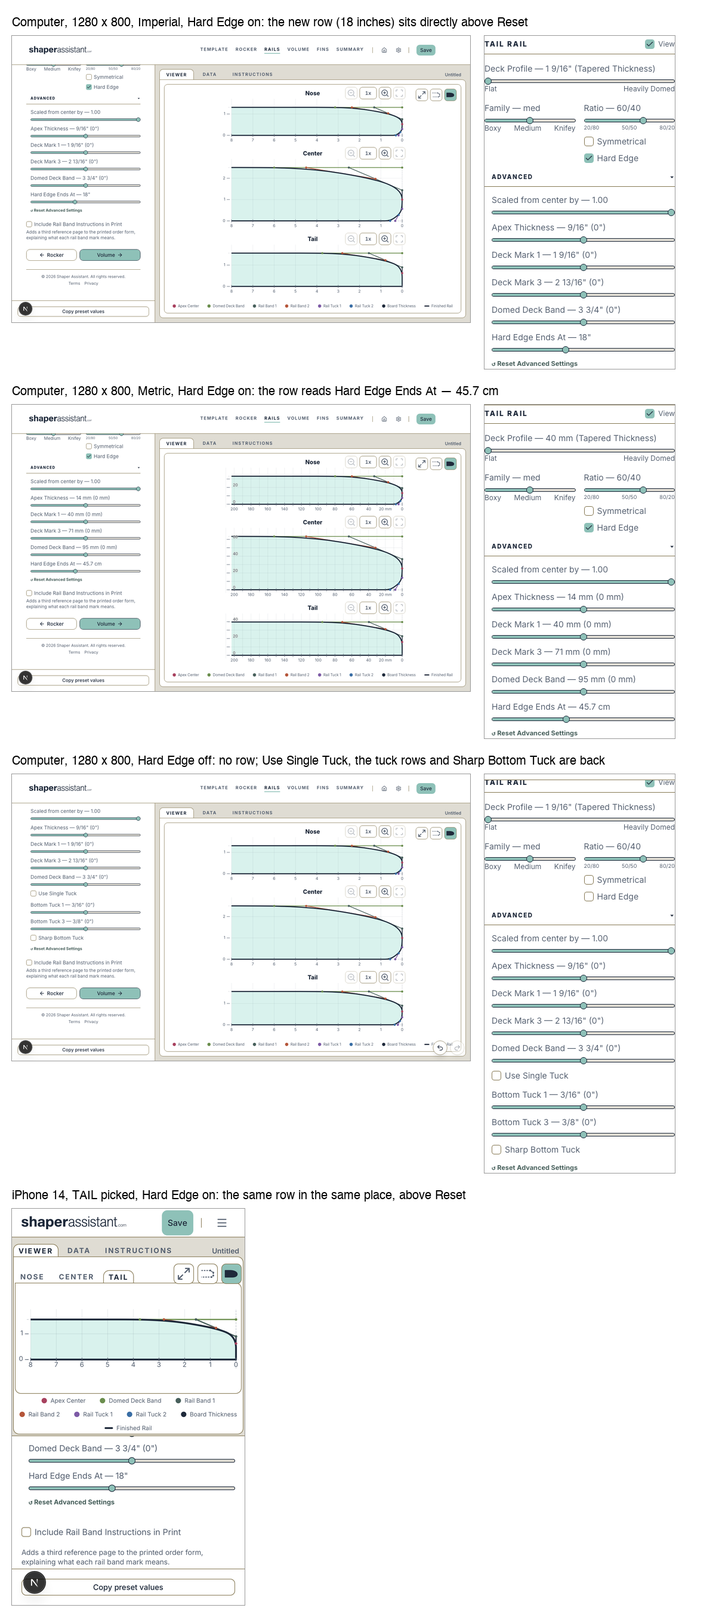
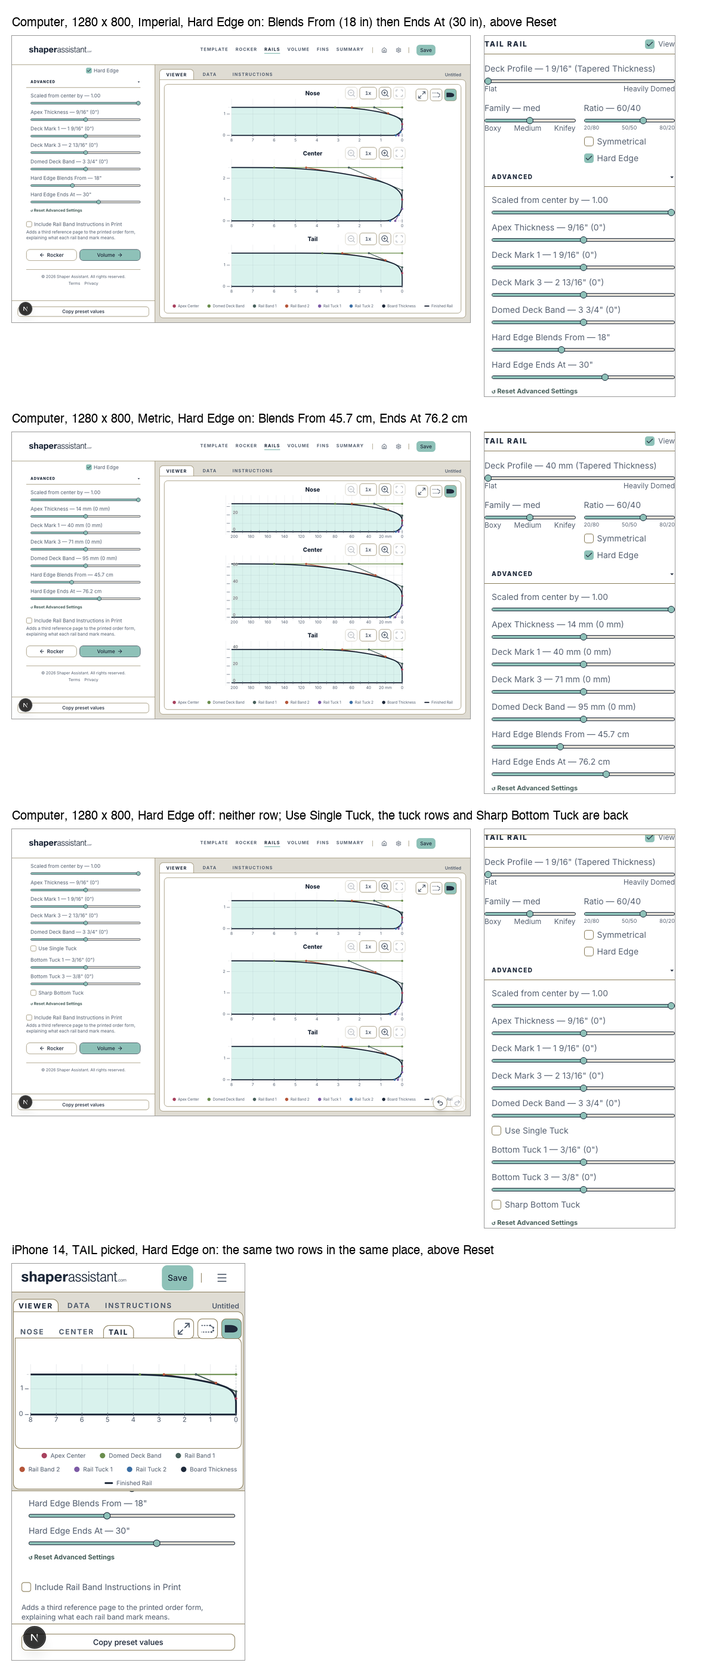
docs(16-02): pictures of RAILS' two hard-edge sliders and the summary for the founder's second look
The tail's Advanced menu on a computer (Imperial, Metric, Hard Edge off) and on an
iPhone, now showing Hard Edge Blends From above Hard Edge Ends At, and the plan's
summary rewritten for D-30: the two settings, the per-length default end, the
preset litres, the re-recorded VOLUME picture and the report's new sample.

Changed region(s): [[0.0, 0.0, 0.9558, 0.7442], [0.0, 0.7442, 0.37, 0.9922], [0.0308, 0.0, 0.2158, 0.2171]]

diff --git a/.planning/phases/16-3d-board-and-cnc-export/16-02-SUMMARY.md b/.planning/phases/16-3d-board-and-cnc-export/16-02-SUMMARY.md
@@ -1,24 +1,29 @@
 ---
 phase: 16-3d-board-and-cnc-export
 plan: 02
-subsystem: rails (controls), saved boards, saved-boards check
+subsystem: rails (controls), hard-edge maths, saved boards, saved-boards check
 status: complete
-tags: [rails, hard-edge, D-05, D-17, D-18, D-20, snapshot, report]
+tags: [rails, hard-edge, D-05, D-17, D-18, D-20, D-27, D-30, snapshot, report]
 requires:
-  - "16-01: RailBandSpec.tailHardEdgeEndsAt, hardEdgeEndsAt, HARD_EDGE_ENDS_AT_RANGE_IN, formatHardEdgeEndsAt, hardEdgeEndsAtSlider, HARD_EDGE_SWITCH, designCrossSectionInput, summarizeDesignWith"
+  - "16-01: boardSections, HARD_EDGE_FADE / HARD_EDGE_SWITCH, RailBandSpec.tailHardEdgeEndsAt, designCrossSectionInput, summarizeDesignWith"
 provides:
-  - "The Hard Edge Ends At row in the tail's Advanced menu on RAILS"
-  - "setTailHardEdgeEndsAt (store); resetRailAdvanced('tail') deletes tailHardEdgeEndsAt in the same undo step"
+  - "RailBandSpec.tailHardEdgeBlendsFrom (D-30) beside tailHardEdgeEndsAt"
+  - "hardEdgeBlendsFrom(rails, length), hardEdgeEndsAt(rails, length), defaultHardEdgeEndsAt(length), hardEdgeBlendsFromWindow, hardEdgeEndsAtWindow"
+  - "HARD_EDGE_BLENDS_FROM_RANGE_IN, DEFAULT_HARD_EDGE_BLENDS_FROM_IN, HARD_EDGE_MIN_BLEND_IN, DEFAULT_HARD_EDGE_ENDS_AT_RULE_IN, HARD_EDGE_ENDS_AT_RANGE_IN (step only)"
+  - "HardEdgeRule.weight(station, anchors, rails, length); tailHardEdgeWeight(station, blendsFrom, endsAt)"
+  - "formatHardEdgeBlendsFrom, formatHardEdgeEndsAt, hardEdgeBlendsFromSlider, hardEdgeEndsAtSlider (coupled ranges)"
+  - "The Hard Edge Blends From and Hard Edge Ends At rows in the tail's Advanced menu on RAILS"
+  - "setTailHardEdgeBlendsFrom, setTailHardEdgeEndsAt (store); resetRailAdvanced('tail') deletes both in one undo step"
   - "The store's litres built through designCrossSectionInput (D-05)"
-  - "Snapshot rule 13: tailHardEdgeEndsAt optional and forgiving, version still 5"
-  - "lib/models/hard-edge-report.ts: hardEdgeLitresMove, hardEdgeReportLines"
-  - "scripts/check-saved-boards.ts --hard-edge-report"
-affects: [16-03, 16-04, 16-05]
+  - "Snapshot rule 13: both settings optional and forgiving, version still 5"
+  - "lib/models/hard-edge-report.ts (hardEdgeLitresMove, hardEdgeReportLines) and scripts/check-saved-boards.ts --hard-edge-report"
+affects: [16-03, 16-04, 16-05, 16-06, 16-07]
 tech-stack:
   added: []
   patterns:
     - "A refused snapshot value leaves no key behind (a .transform strips the undefined), so a bad value reads exactly like an absent one"
-    - "A locked board is seeded in a browser test as a kept saved board (modelId + ownerId + locked), the open-board copy's own trusted shape"
+    - "Two coupled settings resolved in order (start, then end inside a window the start sets), so no stored pair can cross"
+    - "A locked board is seeded in a browser test as a kept saved board (modelId + ownerId + locked)"
 key-files:
   created:
     - lib/models/hard-edge-report.ts
@@ -26,6 +31,13 @@ key-files:
     - .planning/phases/16-3d-board-and-cnc-export/pictures/16-02-rails-hard-edge-ends-at.png
     - .planning/phases/16-3d-board-and-cnc-export/pictures/16-02-pictures-source.tar.gz
   modified:
+    - lib/geometry/rail-bands.ts
+    - lib/geometry/rail-bands.test.ts
+    - lib/geometry/volume.ts
+    - lib/geometry/volume.test.ts
+    - lib/geometry/blank-reasons.ts
+    - lib/geometry/blank-reasons.test.ts
+    - lib/geometry/__fixtures__/phase14-preset-figures.json
     - components/rails/rail-controls.tsx
     - components/rails/rail-band-editor.tsx
     - components/design/design-store.tsx
@@ -33,160 +45,228 @@ key-files:
     - lib/models/design-snapshot.ts
     - lib/models/design-snapshot.test.ts
     - e2e/rails-advanced.spec.ts
+    - e2e/desktop-baseline.spec.ts
+    - e2e/desktop-baseline.spec.ts-snapshots/volume-desktop-desktop-darwin.png
     - scripts/check-saved-boards.ts
+    - .planning/phases/16-3d-board-and-cnc-export/16-01-SUMMARY.md
 decisions:
-  - "Hard Edge Ends At sits last in the tail's Advanced menu, directly above Reset, shown only while Hard Edge is on (UI-SPEC §17)"
-  - "Reset Advanced Settings on the tail deletes the stored distance (the board reads 18 inches), in the same undo step as the rest"
-  - "The saved-board reader drops any Hard Edge Ends At that is not a number from 14 to 24 inches, leaving no key; version stays 5"
-  - "The hard-edge report prints ids and litres only, largest move first, and never changes the check's exit code"
+  - "D-30: the tail's hard edge is full to Hard Edge Blends From (12-30 in, default 18) and fully blended into the centre's tucked rail by Hard Edge Ends At (2 in past Blends From up to the board's centre)"
+  - "The default Ends At grows with the board: L/3 - 18 inches short of the centre (L/6 + 18 from the tail), to the nearest half inch; the two defaults are independent"
+  - "The two settings are read start-first, so a stored pair that crosses always resolves to a valid pair, and the RAILS sliders' ranges follow each other"
+  - "Reset Advanced Settings on the tail deletes both stored settings in the same undo step as the rest"
+  - "The saved-board reader drops only values that could sit on no board; the readers forgive a value that fits some board but not this one; version stays 5"
+  - "The hard-edge report prints ids, both settings (marked default where unset) and litres only, largest move first, and never changes the check's exit code"
 metrics:
-  duration: "about 34 minutes"
+  duration: "about 76 minutes (34 for the first look, 42 for D-30)"
   completed: 2026-11-04
 actuals:
-  tokens: 17000
+  tokens: 52000
   tasks: 2
-  commits: 3
+  commits: 7
 ---
 
-# Phase 16 Plan 02: Hard Edge Ends At on RAILS, saved with the board, and the founder's litres report Summary
+# Phase 16 Plan 02: Hard Edge Blends From and Ends At on RAILS, saved with the board, and the founder's litres report Summary
 
-RAILS now has a "Hard Edge Ends At" slider at the bottom of the tail's Advanced menu, shown while Hard Edge is on.
-It runs 14" to 24" (18" by default), is saved with the board, goes back to 18" on Reset, and moves VOLUME's litres. A
-new read-only `--hard-edge-report` lists, for each saved board with a hard edge, its litres before and after the fade.
+The tail's hard edge now has two settings on RAILS, as D-30 asked. **Hard Edge Blends From** is where the edge
+starts blending; it's full up to there (default 18"). **Hard Edge Ends At** is where the rail has fully blended into
+the centre's tucked rail. Its default grows with the board's length: 30" on a 6'0". Both are saved with the board,
+Reset puts both back in one undo step, VOLUME's litres follow either one, and a read-only report lists each saved
+board's litres before and after.
 
 ## What changes for the founder
 
-- **A new slider on RAILS.** Tick Hard Edge on the tail and open its Advanced menu. The last slider, directly above
-  `↺ Reset Advanced Settings`, now reads `Hard Edge Ends At — 18"`. It sets how far from the tail the hard edge fades
-  into the tucked rail: 14" to 24" in half-inch steps. In Metric it reads `45.7 cm` and moves in whole centimetres. It
-  looks like the sliders above it, with no hint, note or pop-up.
-- **VOLUME follows it.** Moving the slider changes the litres slightly. On the stock board, 18" reads 30.27 L and 24"
-  reads 30.28 L. Nothing on screen says the litres moved, as you asked (D-18).
-- **It stays put.** The board keeps the setting through a reload and a save. Untick Hard Edge and the slider goes away
-  (the tuck rows come back, as before). Tick it again and the slider shows the same distance. `↺ Reset Advanced
-  Settings` puts it back to 18" along with everything else it resets, and one Undo brings it all back.
-- **Old boards are safe.** A board saved before this reads 18", which is what 16-01 already gave it, and nothing is
-  rewritten until you save it. The database didn't change. A saved board holding a value that makes no sense (text, or
-  a distance outside 14"–24") also opens at 18" and is never refused.
-- **A report to run before go-live.** `scripts/check-saved-boards.ts --hard-edge-report` lists, for each saved board
-  with a hard-edged tail, its id and its litres before and after the fade, largest move first. It only reads, and it
-  never shows a board's name or an account. It hasn't been run on the live site; that's your command in the go-live
-  plan (the one-line command is in the script's header, next to the rack report's).
-- **One small thing you may notice in Metric.** 18" is 45.72 cm, which falls between two whole centimetres. So the
-  first arrow-key step or drag from 45.7 cm lands on 47.0 cm, and every step after that is exactly 1 cm. Every Metric
-  slider in the app works this way (the Thinning Start slider too). For the same reason the Metric track runs 36–60 cm,
-  the whole centimetres inside 14"–24".
+- **Two sliders on RAILS.** Tick Hard Edge on the tail and open its Advanced menu. Directly above
+  `↺ Reset Advanced Settings` are two new sliders, in the same style as the ones above them:
+  - `Hard Edge Blends From — 18"`: the hard edge is full up to here, then starts blending into the tucked rail.
+    12" to 30". It never goes below the 12" mark, so the tail plot on RAILS is always a full hard edge.
+  - `Hard Edge Ends At — 30"`: in your words, "where the rail has fully blended into the centre's tuck(s)". From
+    here on the rail is the centre's tucked rail, with the centre's Single Tuck and Sharp Bottom Tuck (D-27,
+    unchanged). It can go "all the way to the centre of the board".
+
+  Both move in half-inch steps. In Metric they read `45.7 cm` and `76.2 cm` and move in whole centimetres.
+- **They follow each other.** Ends At can't come closer than 2" to Blends From, and Blends From can't go past 2"
+  short of Ends At. On a longer board Ends At runs further, because it stops at that board's centre.
+- **The default end grows with the board**, as you set it: "Default end at = L/3 − 18", meaning "inches short of the
+  centre". A board that says nothing reads:
+
+  | Board length | Default Ends At |
+  |---|---:|
+  | 5'8" | 29 1/2" |
+  | 6'0" | 30" |
+  | 6'2" | 30 1/2" |
+  | 7'2" | 32 1/2" |
+  | 9'0" | 36" |
+
+  The default start is always 18". The two defaults are independent of each other.
+- **The 3D page will have the same two sliders.** Its panel comes in a later plan (16-06/16-07), but it will read and
+  write the very same two values on the board. Move one on RAILS and the 3D page shows the new value, and the other
+  way round. Nothing extra has to be built for that.
+- **VOLUME follows either slider.** Nothing on screen says the litres moved (D-18). The preset cards move a hair:
+
+  | Preset | Before Phase 16 | After 16-01 (12"→18") | Now (18" → its own default end) |
+  |---|---:|---:|---:|
+  | Shortboard (6'2", ends at 30 1/2") | 29.61 L | 29.59 L | 29.61 L |
+  | Fish (5'8", ends at 29 1/2") | 34.65 L | 34.64 L | 34.65 L |
+  | Mid-length (7'2", ends at 32 1/2") | 49.41 L | 49.38 L | 49.40 L |
+  | Longboard | unchanged (its tail isn't hard-edged) | | |
+
+  The stock 6'0" board reads 30.29 L on VOLUME again, as it did before 16-01. Its reference picture was re-recorded,
+  and the new file is byte-for-byte the picture from before 16-01. The other four reference pictures didn't change.
+- **The longboard rows.** In the 40-board test set a longboard with Hard Edge ticked now reads about 0.36–0.43 L less
+  than before Phase 16, down from about 1 L after 16-01. Set Ends At further toward the centre and you can keep as
+  much hard edge as the old switch did, or more. The full table is in 16-01's SUMMARY, under "D-30 update".
+- **It stays put.** Both settings survive a reload and a save. Untick Hard Edge and both sliders go away (the tuck rows
+  come back); tick it again and they show the same values. Reset Advanced Settings puts both back to the defaults with
+  everything else, and one Undo brings it all back.
+- **Old boards are safe.** A board saved before this reads 18" and its own default end. So does a board saved with
+  16-02's first single Ends At, except that it keeps that Ends At. Nothing is rewritten until you save, and the
+  database didn't change. A stored value that makes no sense, or a pair that crosses, is read as a sensible pair, and
+  the board is never refused.
+- **A report to run before go-live.** `scripts/check-saved-boards.ts --hard-edge-report` lists every saved board with
+  a hard-edged tail: its two settings as it reads them (marked `(default)` when the board stores none), then its
+  litres before and after, largest move first. It only reads, and it never shows a board's name or an account. It
+  hasn't been run on the live site; that's your one-line command in the go-live plan (in the script's header).
+- **One thing you may notice in Metric.** 18" is 45.72 cm, which falls between two whole centimetres. So the first
+  step or drag from 45.7 cm lands on the next whole centimetre, and every step after that is exactly 1 cm. Every
+  Metric slider in the app works this way.
 
 ## The report on the 40 test boards (not the live site)
 
-Run with the 40-board test set from 16-01, using each board's label as its id (scratch `report40.ts`, archived). The
-figures match 16-01's table to every digit.
+Run with 16-01's 40-board test set, using each board's label as its id (scratch `report40.ts`, archived). None of
+these boards stores a setting, so every one reads the defaults.
 
 ```
 hard-edge report: 40 saved boards; 40 open; 20 with a hard-edged tail
-longboard|asis|hard: 75.03 → 73.96 L (-1.0703)
-longboard|pin|hard: 70.39 → 69.32 L (-1.0703)
-longboard|round|hard: 70.39 → 69.32 L (-1.0703)
-longboard|diamond|hard: 74.65 → 73.65 L (-1.0061)
-longboard|swallow|hard: 75.52 → 74.52 L (-0.9949)
-midlength|diamond|hard: 50.99 → 50.96 L (-0.0317)
-midlength|swallow|hard: 51.66 → 51.63 L (-0.0314)
-midlength|asis|hard: 49.41 → 49.38 L (-0.0289)
-midlength|pin|hard: 49.41 → 49.38 L (-0.0289)
-midlength|round|hard: 49.41 → 49.38 L (-0.0289)
-shortboard|diamond|hard: 30.18 → 30.16 L (-0.0220)
-shortboard|asis|hard: 29.61 → 29.59 L (-0.0219)
-shortboard|pin|hard: 28.77 → 28.75 L (-0.0219)
-shortboard|round|hard: 28.77 → 28.75 L (-0.0219)
-shortboard|swallow|hard: 30.64 → 30.61 L (-0.0215)
-fish|diamond|hard: 34.08 → 34.06 L (-0.0160)
-fish|asis|hard: 34.65 → 34.64 L (-0.0156)
-fish|swallow|hard: 34.65 → 34.64 L (-0.0156)
-fish|pin|hard: 31.87 → 31.86 L (-0.0155)
-fish|round|hard: 31.87 → 31.86 L (-0.0155)
-largest move: longboard|asis|hard, -1.0703 L
+longboard|asis|hard: blends from 18" (default) · ends at 36" (default) — 75.03 → 74.60 L (-0.4307)
+longboard|pin|hard: blends from 18" (default) · ends at 36" (default) — 70.39 → 69.96 L (-0.4307)
+longboard|round|hard: blends from 18" (default) · ends at 36" (default) — 70.39 → 69.96 L (-0.4307)
+longboard|diamond|hard: blends from 18" (default) · ends at 36" (default) — 74.65 → 74.28 L (-0.3680)
+longboard|swallow|hard: blends from 18" (default) · ends at 36" (default) — 75.52 → 75.16 L (-0.3563)
+midlength|diamond|hard: blends from 18" (default) · ends at 32 1/2" (default) — 50.99 → 50.98 L (-0.0072)
+midlength|swallow|hard: blends from 18" (default) · ends at 32 1/2" (default) — 51.66 → 51.66 L (-0.0067)
+midlength|asis|hard: blends from 18" (default) · ends at 32 1/2" (default) — 49.41 → 49.40 L (-0.0049)
+midlength|pin|hard: blends from 18" (default) · ends at 32 1/2" (default) — 49.41 → 49.40 L (-0.0049)
+midlength|round|hard: blends from 18" (default) · ends at 32 1/2" (default) — 49.41 → 49.40 L (-0.0049)
+fish|pin|hard: blends from 18" (default) · ends at 29 1/2" (default) — 31.87 → 31.88 L (+0.0041)
+fish|round|hard: blends from 18" (default) · ends at 29 1/2" (default) — 31.87 → 31.88 L (+0.0041)
+fish|asis|hard: blends from 18" (default) · ends at 29 1/2" (default) — 34.65 → 34.65 L (+0.0040)
+fish|swallow|hard: blends from 18" (default) · ends at 29 1/2" (default) — 34.65 → 34.65 L (+0.0040)
+fish|diamond|hard: blends from 18" (default) · ends at 29 1/2" (default) — 34.08 → 34.08 L (+0.0036)
+shortboard|swallow|hard: blends from 18" (default) · ends at 30 1/2" (default) — 30.64 → 30.64 L (+0.0010)
+shortboard|asis|hard: blends from 18" (default) · ends at 30 1/2" (default) — 29.61 → 29.61 L (+0.0006)
+shortboard|pin|hard: blends from 18" (default) · ends at 30 1/2" (default) — 28.77 → 28.77 L (+0.0006)
+shortboard|round|hard: blends from 18" (default) · ends at 30 1/2" (default) — 28.77 → 28.77 L (+0.0006)
+shortboard|diamond|hard: blends from 18" (default) · ends at 30 1/2" (default) — 30.18 → 30.18 L (+0.0005)
+largest move: longboard|asis|hard, -0.4307 L
 ```
 
-On the live site each line starts with the saved board's row id instead of a label. A board that does not open is
-counted in the first line (`…; k open, d did not open; …`) and never listed.
+On the live site each line starts with the saved board's row id. A board that doesn't open is counted in the first
+line (`…; k open, d did not open; …`) and never listed.
 
-## Tasks
+## Tasks and commits
 
-| Task | Name | Commit | Files |
-| ---- | ---- | ------ | ----- |
-| 1 | Tracer: the row, the store, the saved board, VOLUME following | d209bf49 | rail-controls.tsx, rail-band-editor.tsx, design-store.tsx (+ its source test), design-snapshot.ts (+test), rails-advanced.spec.ts |
-| 2 | Every state of the row, Reset in one undo step, the read-only report | 3a629a1e | design-store.tsx, rails-advanced.spec.ts, hard-edge-report.ts (+test), check-saved-boards.ts, the two pictures |
-| 3 | The founder tries it before this merges | — (checkpoint) | pictures/16-02-rails-hard-edge-ends-at.png, this SUMMARY |
-
-Tracer gate: after Task 1, its browser case passed on iPhone, Android and the computer (with typecheck, lint and the
-full unit suite green). Then Task 2 began.
+| # | What | Commit | Files |
+| - | ---- | ------ | ----- |
+| 1 | Tracer (first look): one Hard Edge Ends At row, the store, the saved board, VOLUME following | d209bf49 | rail-controls.tsx, rail-band-editor.tsx, design-store.tsx (+ its source test), design-snapshot.ts (+test), rails-advanced.spec.ts |
+| 2 | Every state of the row, Reset in one undo step, the read-only report (first look) | 3a629a1e | design-store.tsx, rails-advanced.spec.ts, hard-edge-report.ts (+test), check-saved-boards.ts, pictures |
+| — | SUMMARY for the first look | 0f5e1aa3 | 16-02-SUMMARY.md |
+| A | D-30 maths: Blends From and Ends At, the coupled readers and sliders, preset figures, VOLUME picture, the 16-01 table | 677482ca | rail-bands.ts, volume.ts, blank-reasons.ts (+tests), phase14-preset-figures.json, design-snapshot.ts (+test), rail-controls.tsx, rail-band-editor.tsx, desktop-baseline spec + VOLUME PNG, 16-01-SUMMARY.md |
+| A2 | D-30 amendment: the default end grows with the board (L/3 − 18 short of the centre) | a8d8e3b5 | rail-bands.ts (+test), volume.test.ts, design-snapshot.test.ts, phase14-preset-figures.json, 16-01-SUMMARY.md |
+| B | RAILS' two rows, the store's second setter, Reset of both, the report's settings, the browser cases | b5a065e9 | rail-controls.tsx, rail-band-editor.tsx, design-store.tsx, hard-edge-report.ts (+test), check-saved-boards.ts, rails-advanced.spec.ts |
+| C | Pictures and this SUMMARY | (this commit) | 16-02-rails-hard-edge-ends-at.png, 16-02-pictures-source.tar.gz, 16-02-SUMMARY.md |
+| 3 | The founder's second look | — (checkpoint) | |
 
 ## Verification
 
-- `npm test`: 164 files, 6882 passed, 2 skipped. `npx tsc --noEmit`: 0 errors. `npm run lint`: 0 errors. The one
-  warning, in `lib/db/import-designs-action.test.ts`, was there before this plan.
+- `npm test`: 164 files, 6895 passed, 2 skipped (after A2 and again after B). `npx tsc --noEmit`: 0 errors.
+  `npm run lint`: 0 errors. The one warning, in `lib/db/import-designs-action.test.ts`, was there before this plan.
+- The 40-board pin test still passes: every board's litres under `HARD_EDGE_SWITCH` are bit-identical.
+- `phase14-preset-figures.json`: both regenerations (A, then A2) changed exactly 3 lines, all `litres`
+  (`git diff --numstat` 3/3 each time).
+- `e2e/desktop-baseline.spec.ts --project=desktop`:
+  - After A, VOLUME alone failed. 649 pixels changed, all inside the litres figure's box (x 1160–1224, y 361–379),
+    reading 30.27 L → 30.29 L. Only that picture was re-recorded. Its SHA-256 went ae36a4ba → 14f11e4c, which is the
+    picture from before 16-01.
+  - After A2, all 5 passed with no second re-record. The 6'0" default end is still 30".
 - `PW_PORT=3202 IS_WEBPACK_TEST=1 npx playwright test e2e/rails-advanced.spec.ts e2e/undo-redo.spec.ts
-  e2e/board-lock.spec.ts e2e/phone-rails.spec.ts`: 126 passed, 65 skipped, 1 failed. The failure was a 30-second
-  page-load timeout in `board-lock.spec.ts` p1 on iPhone while the machine was busy. That file re-run alone: 10 passed,
-  14 skipped (ruling 11).
-- The new describe `Hard Edge Ends At (Phase 16, D-20)` has cases 1–8. All pass on every project they run on. Case 5,
-  the 820-wide one-line check, runs on the computer only.
-- `e2e/desktop-baseline.spec.ts --project=desktop`: 5 passed. No reference picture moved.
-- `git diff --stat 5b07f43e HEAD -- drizzle lib/db/schema.ts lib/geometry .planning/STATE.md .planning/ROADMAP.md` is
-  empty: no database change, nothing in `lib/geometry/`, and no tracking files.
-- Acceptance greps: `Tail Rail hard edge ends at` 1, `Hard Edge Ends At — ` 1, no inch arithmetic in rail-controls.tsx,
-  `setTailHardEdgeEndsAt` ×3 and `designCrossSectionInput(` ×1 in the store, `tailHardEdgeEndsAt` ×4 in the snapshot
-  reader, `hard-edge-report` ×8 in the script, no name/account words in the report module, the reset deletes the field.
+  e2e/board-lock.spec.ts e2e/phone-rails.spec.ts` (after B): 131 passed, 67 skipped, 0 failed, on all three
+  projects.
+- The new describe `Hard Edge Blends From and Ends At (Phase 16, D-20/D-30)` has cases 1–10:
+  1. Both rows in order above Reset; moving either moves VOLUME's litres; a reload keeps both.
+  2. Hard Edge off hides both and brings back the tuck rows; values are kept through off and on.
+  3. The coupling both ways (Ends At stops at 20", Blends From at 18", then 30"/32").
+  4. Reset restores both with the rest, and one Undo brings it all back.
+  5. Metric labels and whole-centimetre steps, stored as whole millimetres.
+  6. 820-wide one-line labels (computer).
+  7. On a locked board both rows are greyed and disabled.
+  8. A kept crossing pair 26"/20" reads 26"/30".
+  9. Nothing on screen announces the move.
+  10. The Shortboard preset reads its own 30 1/2" default, and Reset returns to it (computer).
+- `git diff --stat 5b07f43e HEAD -- drizzle lib/db/schema.ts .planning/STATE.md .planning/ROADMAP.md` is empty: no
+  database change and no tracking files. `lib/geometry/board-surface*.ts` (16-03's) wasn't touched.
 
 ## Deviations from Plan
 
-1. **[Rule 3 - Blocking] `components/design/design-store.test.ts` updated** (it isn't in `files_modified`). This test
-   reads the store's source, and it checked that the litres memo spelled out `thicknessAt: sideProfile.thicknessAt`
-   and `foil: sideProfile.effectiveFoil`. The plan moves that memo onto `designCrossSectionInput` (D-05), which broke
-   the check. The test now confirms the memo hands `outlineGeometry, sideProfile, effectiveRails,
-   state.outline.length` to that helper, and that the helper in `lib/geometry/design.ts` reads the profile's own
-   thickness curve and foil. The rule it guards still holds, and nothing in `lib/geometry/` changed. Commit d209bf49.
-2. **The rule-13 tests have their own `describe`** with their own `wire()` helper, not rule 12's block. Rule 12's
-   `wire()` is typed without the new key.
-3. **The reader leaves no key at all for a refused value.** On its own, `.catch(undefined)` would leave
-   `tailHardEdgeEndsAt: undefined` on the rails. An extra `.transform` strips it, so garbage parses exactly like an
-   absent field (`"tailHardEdgeEndsAt" in rails` is false), as the SPEC prohibition asks.
-4. **Metric step check (case 4).** The plan said "one keyboard step moves it by 1.0 cm". In practice, from 45.72 cm the
-   first step lands on the 1 cm track (47.0 cm), and each step after is 1.0 cm. The test now checks exactly that, plus
-   whole-millimetre storage. This comes from `measureSlider` in `lib/geometry/`, which isn't mine to change. It's
-   flagged for the founder above.
-5. **The locked board (case 6)** comes from a kept saved board in the browser's storage (a trusted id, account and
-   `locked: true`), not from `board-lock.spec.ts`'s practice-rack clicks. It's the same lock the editor reads, without
-   a walk through the rack.
-6. **TDD gate.** Task 2 is `tdd="true"`. I saw RED first (the report test failed because the module didn't exist), then
-   GREEN. Both are in one commit because the orchestrator's ruling 6 asks for one commit per task. There's no separate
-   `test(...)` commit.
-7. **Tracer checkpoint.** Auto mode is off, but the orchestrator's rulings name Task 3 as this plan's only checkpoint.
-   So the tracer gate was the automated re-run, and I didn't stop for a person after Task 1.
+1. **Read this before merging 16-03 (a coordination issue, not a defect here).** D-30's readers take the board's
+   length: `hardEdgeEndsAt(rails, length)`, plus the new `hardEdgeBlendsFrom(rails, length)`. The parked 16-03 branch
+   calls `hardEdgeEndsAt(rails)` with one argument in `lib/geometry/board-surface.ts:143` and in
+   `board-surface.test.ts:162`. So after 16-02 merges, 16-03 won't typecheck until those two calls pass the length.
+   Its `surfaceStations` should also take a ring at `hardEdgeBlendsFrom(rails, length)`. Before D-30 the blend's start
+   was the 12" station, which already had a ring; now it's a setting, and the surface would otherwise have no ring at
+   the start of the blend. These are two-line changes in files I don't own, so I left them alone.
+2. **Commit A also touched callers.** For Commit A to typecheck on its own, it carries minimal changes outside
+   `lib/geometry/`:
+   - RAILS now passes the board's length to the readers.
+   - The saved-board reader's bounds became the widest any board could need (Blends From 12"–30"; Ends At from 14"
+     to the centre of the longest board). Where a value actually sits on a given board is the readers' job.
+   - The snapshot tests were updated to match.
+3. **The default end's 18 is its own constant.** `DEFAULT_HARD_EDGE_ENDS_AT_RULE_IN = 18` is the 18 in "L/3 − 18",
+   kept separate from the default start's 18 because you called them "Two independent values". Changing one can
+   never move the other.
+4. **[Rule 1] A Sharp Bottom Tuck test needed a short blend.** One volume test checked a group of tail-nearest
+   stations that sit wholly past the blend. At the new defaults a 6'0" board's blend reaches past halfway to the
+   centre, so that group is empty. The test now runs on a 14"→18" blend so every group is exercised. Nothing in the
+   maths changed for it.
+5. **The litres sweep test checks direction, not a fixed direction.** It used to expect the litres to rise as Ends At
+   moved. It now asks only that each sweep moves one way and never back, because whether more hard edge adds or
+   removes foam depends on the board.
+6. **Browser case 9 moves one setting.** Moving Blends From to 12" and Ends At to the centre together can leave the
+   litres unchanged at two decimals (the earlier start takes off about what the later end keeps). So the "nothing
+   announces it" case moves Ends At alone. Case 1 shows each setting moves the litres on its own.
+7. **Carried over from the first look.**
+   - `components/design/design-store.test.ts` now checks the litres go through `designCrossSectionInput`.
+   - A refused snapshot value leaves no key at all.
+   - The locked board in the browser tests is a kept saved board, not one locked through the practice rack.
+   - Task 2's RED and GREEN steps are in one commit (orchestrator ruling 6).
+   - The tracer gate was the automated re-run; the only stop for a person is the checkpoint.
 
 ## Threat surface
 
-- T-16-03 mitigated: `z.number().min(14").max(24").optional().catch(undefined)` plus the strip. Tests cover `"x"`,
-  NaN, null, Infinity, 1e9, 10", 30", -18" and an object: each opens with no stored value, reads 18", and the rest
-  of the board opens unchanged.
-- T-16-04 mitigated: the report module never names a board's name or an account. A test feeds in two frozen saved
-  boards named "Chris's Secret Fish" and checks the name never appears. The production command reuses the existing
-  EXIT trap that deletes the pulled env file.
-- T-16-05 mitigated: the report reuses the one existing read-only select. There's no write path, and it wasn't run
-  against any database.
+- **T-16-01 / T-16-03 (widened for D-30).**
+  - The saved-board reader drops anything that isn't a finite number that could sit on some board: NaN, Infinity,
+    1e9, strings, null, objects, negatives, and values past either outer bound.
+  - The readers resolve Blends From first, then Ends At inside [Blends From + 2", centre]. A sweep test over stored
+    pairs on three board lengths shows every resolved pair is ordered, at least 2" apart, never past the centre, and
+    inside the sliders' own windows.
+  - A crossing pair is kept as stored but read as a valid pair, and never rewritten.
+- **T-16-04.** The report prints ids, settings and litres only; a test checks that a board named "Chris's Secret Fish"
+  never appears. The production command reuses the existing EXIT trap that deletes the pulled env file.
+- **T-16-05.** The report reuses the one existing read-only select. There's no write path, and it wasn't run against
+  any database.
 - No new endpoints, routes or storage.
 
 ## Known Stubs
 
-None.
+None. The 3D page's copy of the two sliders is a later plan's (16-06/16-07); it reads the same store values.
 
 ## Self-Check: PASSED
 
 - FOUND: lib/models/hard-edge-report.ts, lib/models/hard-edge-report.test.ts,
-  pictures/16-02-rails-hard-edge-ends-at.png, pictures/16-02-pictures-source.tar.gz (pictures.config.ts, shots.spec.ts,
-  compose.py, report40.ts, litres-default.ts, slider.ts)
-- FOUND commits: d209bf49, 3a629a1e
+  pictures/16-02-rails-hard-edge-ends-at.png (both rows in all four shots, checked by eye),
+  pictures/16-02-pictures-source.tar.gz (pictures.config.ts, shots.spec.ts, compose.py, report40.ts, table40-d30.ts,
+  litres-default.ts, slider.ts)
+- FOUND commits: d209bf49, 3a629a1e, 0f5e1aa3, 677482ca, a8d8e3b5, b5a065e9
 
 ## Founder's look
 
-Pending — presented by the orchestrator at the Wave 2 checkpoint.
+Pending — presented by the orchestrator at the Wave 2 checkpoint (second look, after D-30).
